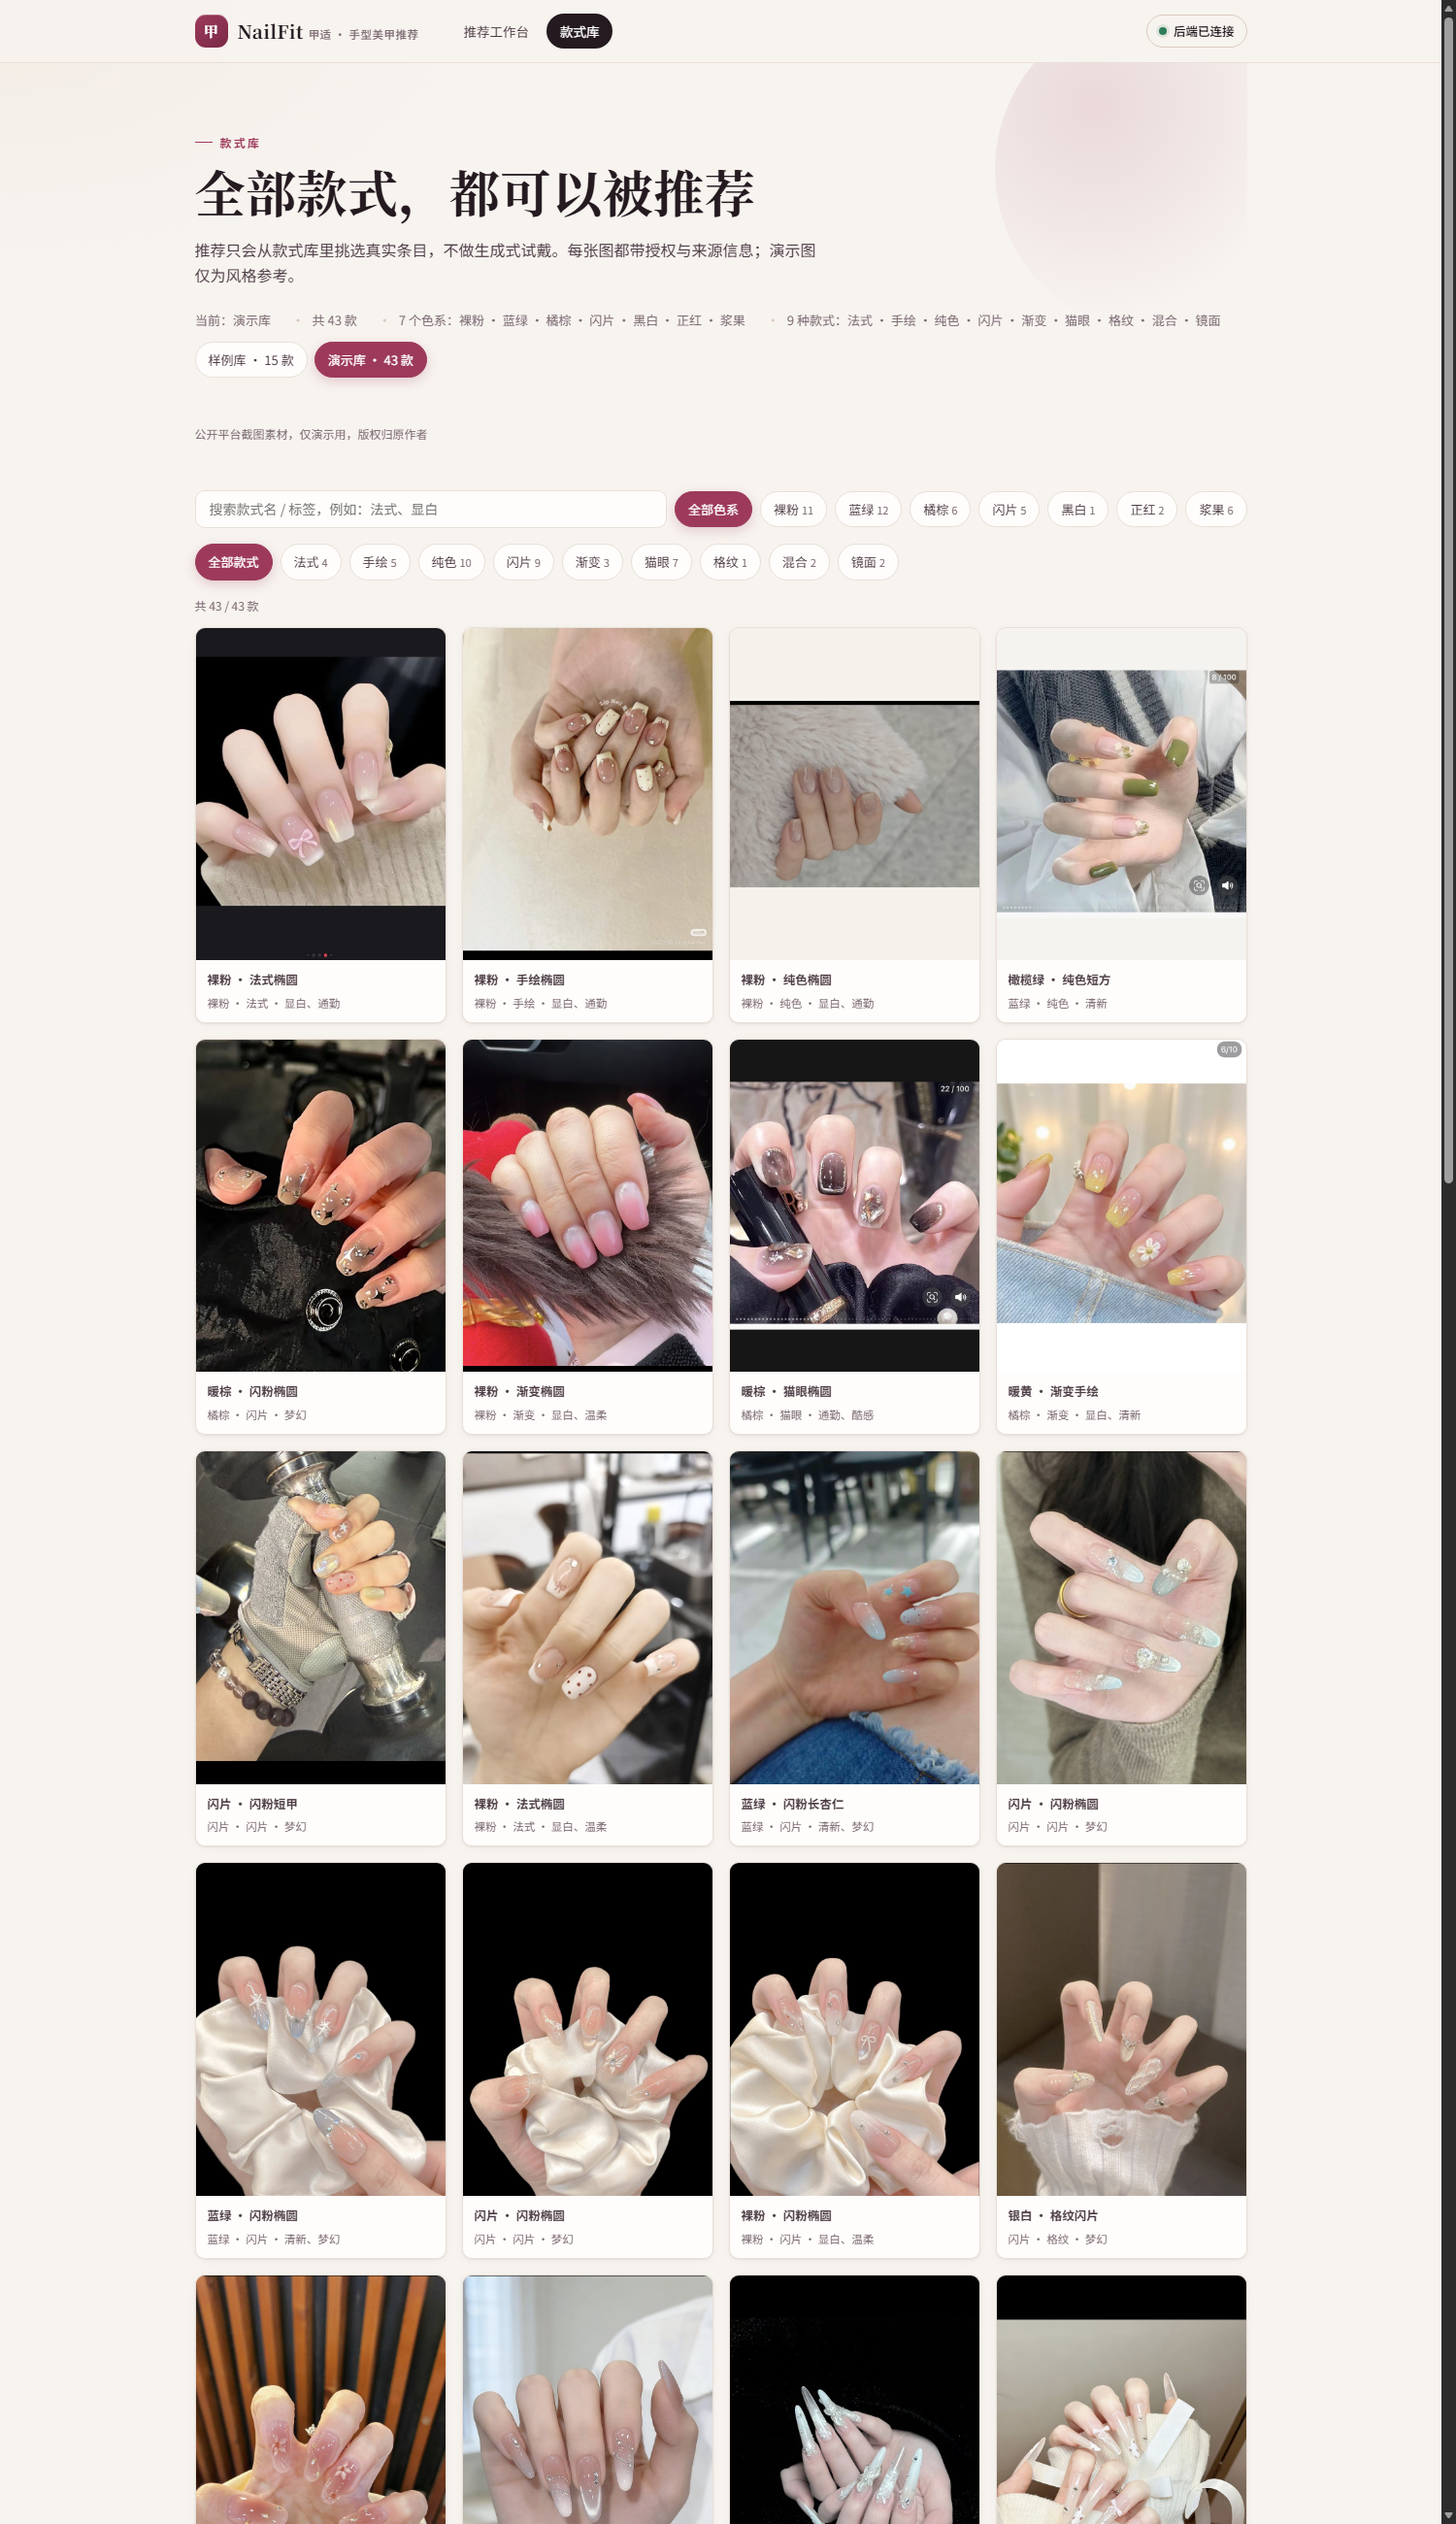
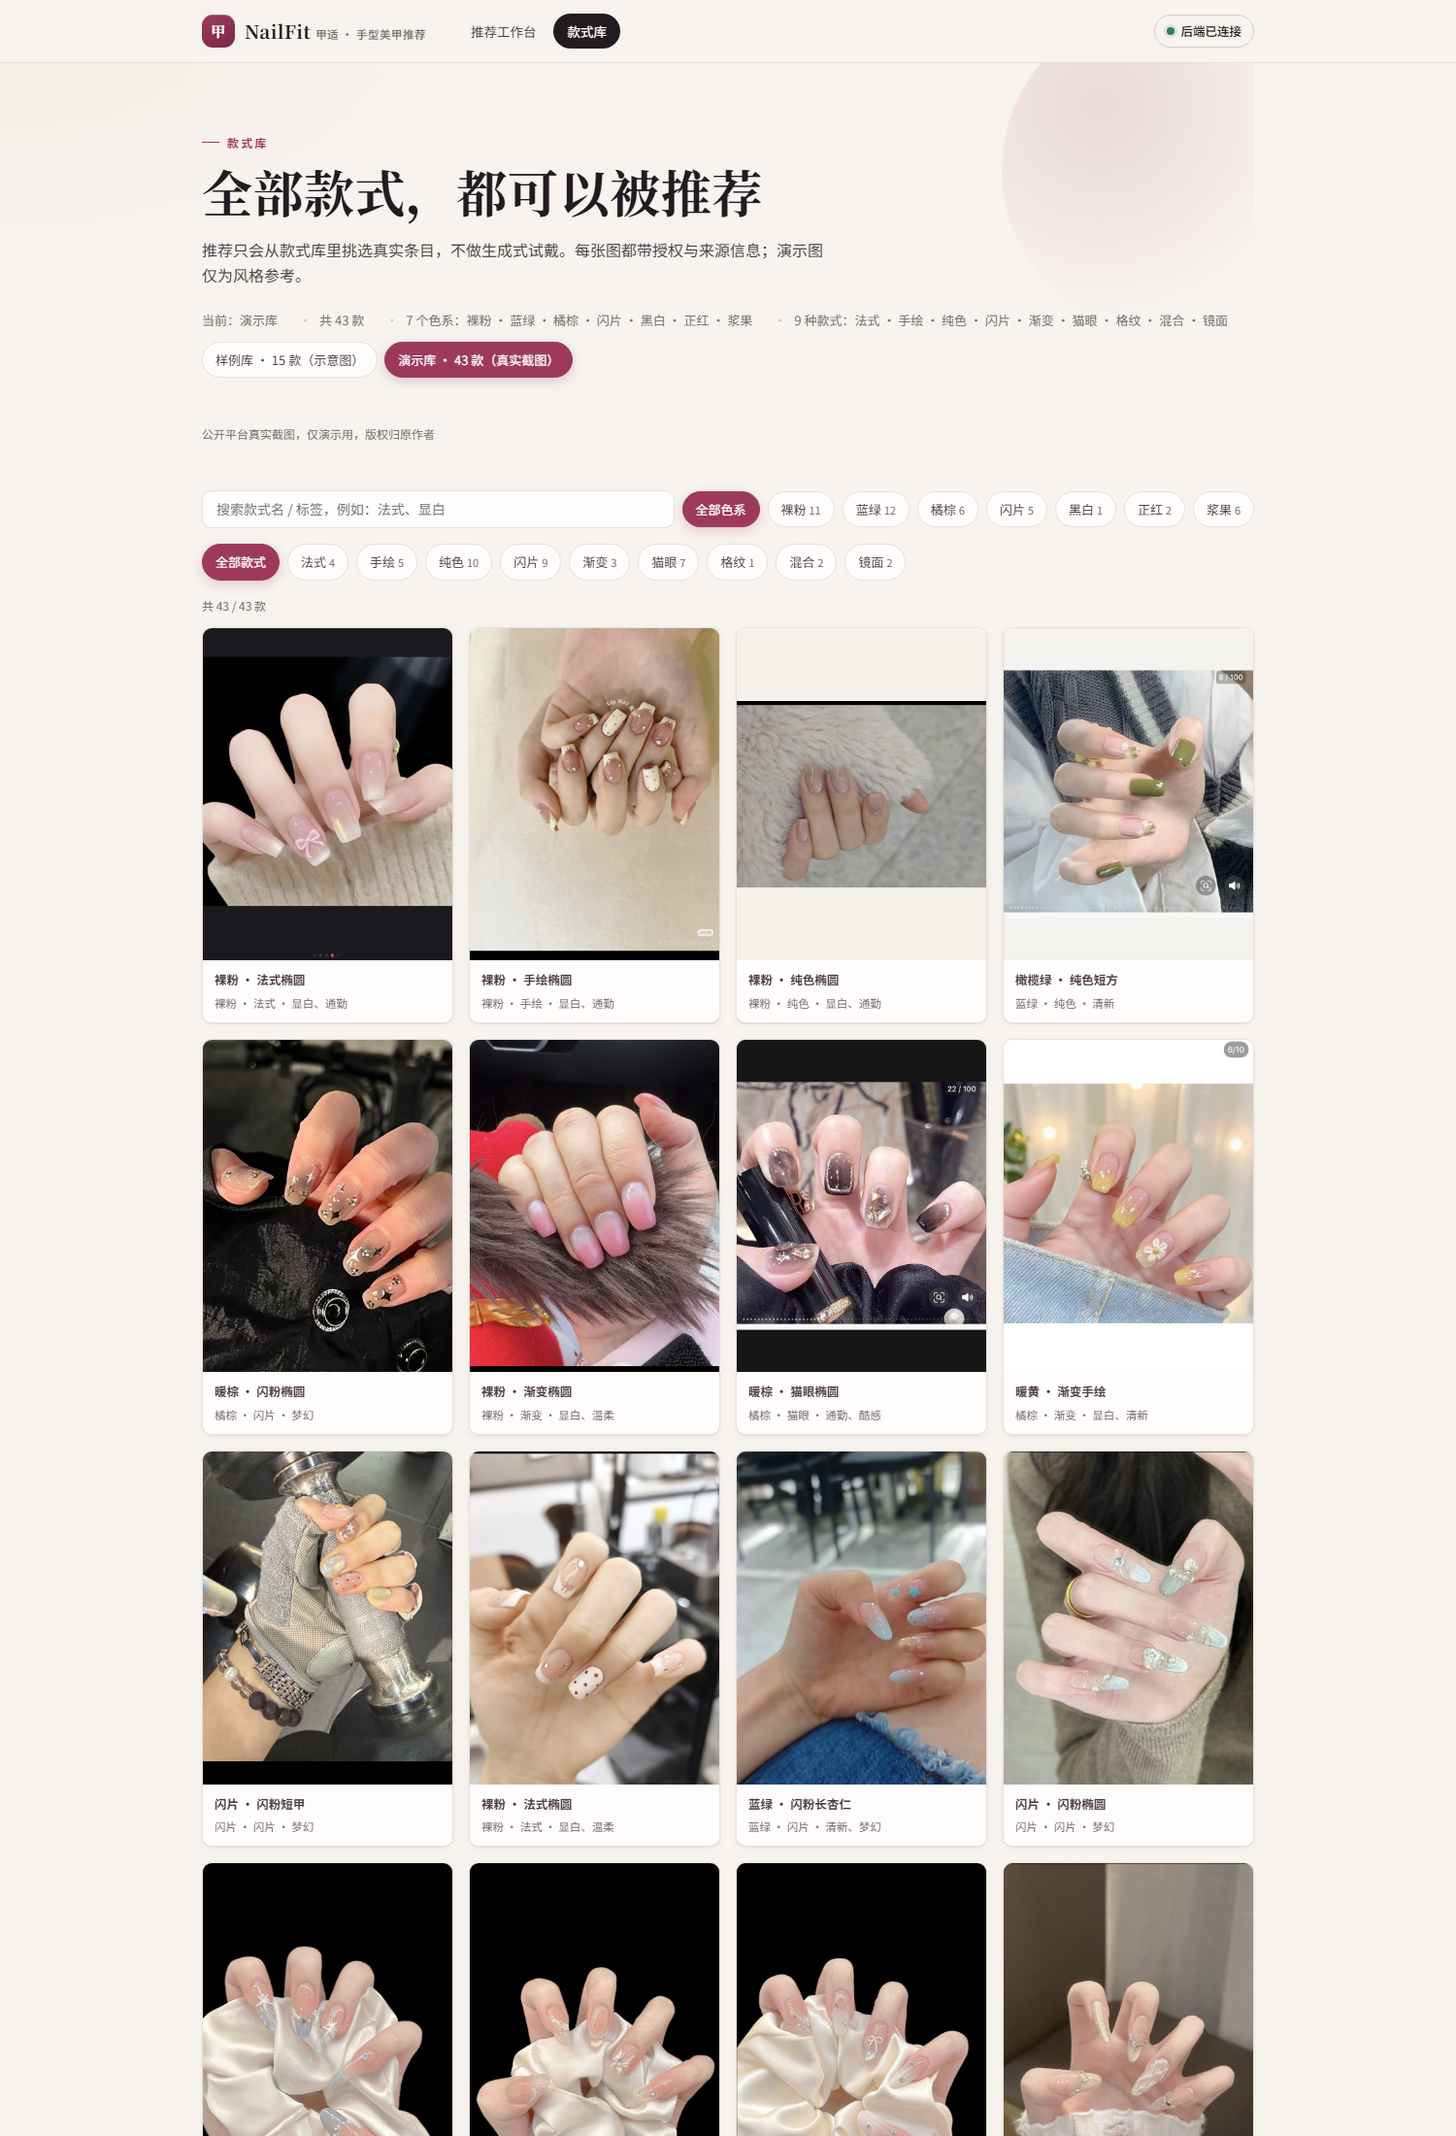
fix: 默认自动选演示库、区分占位图与演示素材、LLM 开关按后端状态（M29 配套）

diff --git a/src/views/WorkbenchView.vue b/src/views/WorkbenchView.vue
@@ -1,8 +1,15 @@
 <script setup lang="ts">
 import { computed, onMounted, ref, watch } from 'vue'
-import type { Features, LibraryName, RecommendResponse, Style, VisionResponse } from '../types'
+import type {
+  Features,
+  LibraryInfo,
+  LibraryName,
+  RecommendResponse,
+  Style,
+  VisionResponse,
+} from '../types'
 import { api, ApiError } from '../api'
-import { DEFAULT_FEATURES, LIBRARY_SHORT, SCENE_LABELS, type Preset } from '../options'
+import { DEFAULT_FEATURES, LIBRARY_SHORT, SCENE_LABELS, pickDefaultLibrary, type Preset } from '../options'
 import FeatureForm from '../components/FeatureForm.vue'
 import PhotoUpload from '../components/PhotoUpload.vue'
 import ResultBoard from '../components/ResultBoard.vue'
@@ -20,6 +27,11 @@ const styles = ref<Style[]>([])
 const stylesError = ref('')
 const llmReady = ref(false)
 const showUpload = ref(false)
+const libraryMeta = ref<Record<string, LibraryInfo>>({})
+const demoMissing = computed(() => {
+  const demo = libraryMeta.value.demo
+  return Boolean(demo && demo.available && !demo.images_ready)
+})
 
 const libraryCount = computed(() => styles.value.length)
 const libraryLabel = computed(() => LIBRARY_SHORT[library.value] ?? '款式库')
@@ -35,16 +47,28 @@ async function loadStyles(): Promise<void> {
   }
 }
 
+let initialized = false
+
 onMounted(async () => {
+  const [health, libs] = await Promise.all([
+    api.health().catch(() => null),
+    api.libraries().catch(() => null),
+  ])
+  // 后端有没有配 DEEPSEEK_API_KEY 决定大模型开关是否可用（没配会自动降级模板）
+  llmReady.value = health?.llm_configured ?? true
+  useLlm.value = llmReady.value
+  if (libs) {
+    libraryMeta.value = Object.fromEntries(libs.libraries.map((item) => [item.name, item]))
+    const preferred = pickDefaultLibrary(libs)
+    if (preferred) library.value = preferred
+  }
+  initialized = true
   await loadStyles()
-  // 后端未配置 Key 时会自动退回模板理由，因此默认允许勾选；
-  // 首次推荐成功后，可用 meta.explainer 进一步展示实际生成方式。
-  llmReady.value = true
 })
 
 watch(library, () => {
   result.value = null
-  void loadStyles()
+  if (initialized) void loadStyles()
 })
 
 function currentScene(): string {
@@ -133,6 +157,7 @@ const sceneLabel = computed(() => SCENE_LABELS[features.value.scene] ?? features
           v-model:library="library"
           :busy="loading"
           :llm-ready="llmReady"
+          :library-meta="libraryMeta"
           @submit="submit"
           @reset="resetForm"
           @preset="applyPreset"
@@ -157,6 +182,11 @@ const sceneLabel = computed(() => SCENE_LABELS[features.value.scene] ?? features
 
         <div v-if="stylesError" class="alert alert-error" style="margin-bottom: 14px">
           款式库加载失败：{{ stylesError }}。请确认后端已启动（默认 http://127.0.0.1:8000）。
+        </div>
+
+        <div v-else-if="demoMissing" class="alert alert-error" style="margin-bottom: 14px">
+          演示库图片缺失（<code>static/demo/</code> 未随仓库提交），已可回退样例库占位图。
+          需要真实截图时在项目根目录重跑 <code>python scripts/prepare_images.py</code>。
         </div>
 
         <ResultBoard :result="result" :busy="loading" :error="error" />

diff --git a/src/views/LibraryView.vue b/src/views/LibraryView.vue
@@ -1,17 +1,34 @@
 <script setup lang="ts">
 import { computed, onMounted, ref, watch } from 'vue'
-import type { LibraryName, Style } from '../types'
+import type { LibraryInfo, LibraryName, Style } from '../types'
 import { api, ApiError } from '../api'
-import { COLOR_FAMILY_LABELS, LIBRARIES, LIBRARY_HINTS, LIBRARY_SHORT, STYLE_LABELS } from '../options'
+import {
+  COLOR_FAMILY_LABELS,
+  LIBRARIES,
+  LIBRARY_HINTS,
+  LIBRARY_SHORT,
+  STYLE_LABELS,
+  pickDefaultLibrary,
+} from '../options'
 import StyleGallery from '../components/StyleGallery.vue'
 
 const library = ref<LibraryName>('sample')
+const libraryMeta = ref<Record<string, LibraryInfo>>({})
 const styles = ref<Style[]>([])
 const loading = ref(true)
 const error = ref('')
 
 const libraryLabel = computed(() => LIBRARY_SHORT[library.value] ?? '款式库')
-const libraryHint = computed(() => LIBRARY_HINTS[library.value] ?? '')
+const libraryHint = computed(() => {
+  const base = LIBRARY_HINTS[library.value] ?? ''
+  return libraryReady(library.value) ? base : `${base} · 图片缺失，请重跑 prepare_images.py`
+})
+
+function libraryReady(name: string): boolean {
+  const meta = libraryMeta.value[name]
+  if (!meta) return true
+  return meta.available && meta.images_ready
+}
 
 const colorCount = computed(() => new Set(styles.value.map((s) => s.color_family)).size)
 const styleCount = computed(() => new Set(styles.value.map((s) => s.style)).size)
@@ -30,7 +47,17 @@ async function load(): Promise<void> {
   }
 }
 
-onMounted(load)
+onMounted(async () => {
+  try {
+    const libs = await api.libraries()
+    libraryMeta.value = Object.fromEntries(libs.libraries.map((item) => [item.name, item]))
+    const preferred = pickDefaultLibrary(libs)
+    if (preferred) library.value = preferred
+  } catch {
+    /* 拿不到库清单就按默认样例库加载 */
+  }
+  await load()
+})
 
 watch(library, () => void load())
 
@@ -69,7 +96,8 @@ const styleList = computed(() =>
         class="chip"
         :class="{ active: library === item.value }"
         :aria-pressed="library === item.value"
-        :disabled="loading"
+        :disabled="loading || !libraryReady(item.value)"
+        :title="libraryReady(item.value) ? LIBRARY_HINTS[item.value] : '图片缺失，请在项目根目录重跑 prepare_images.py'"
         @click="library = item.value as LibraryName"
       >
         {{ item.label }}

diff --git a/src/options.ts b/src/options.ts
@@ -1,4 +1,4 @@
-import type { Features } from './types'
+import type { Features, LibrariesResponse, LibraryName } from './types'
 
 export interface Option {
   value: string
@@ -99,18 +99,28 @@ export const SCENE_LABELS: Record<string, string> = {
 }
 
 export const LIBRARIES: Option[] = [
-  { value: 'sample', label: '样例库 · 15 款' },
-  { value: 'demo', label: '演示库 · 43 款' },
+  { value: 'sample', label: '样例库 · 15 款（示意图）' },
+  { value: 'demo', label: '演示库 · 43 款（真实截图）' },
 ]
 
 export const LIBRARY_HINTS: Record<string, string> = {
-  sample: '占位图样式示例，随仓库提交，离线也能看',
-  demo: '公开平台截图素材，仅演示用，版权归原作者',
+  sample: '精绘占位示意图，非真实款式；随仓库提交，离线也能看',
+  demo: '公开平台真实截图，仅演示用，版权归原作者',
 }
 
 export const LIBRARY_SHORT: Record<string, string> = {
   sample: '样例库',
   demo: '演示库',
+}
+
+/** 有图齐全的演示库优先（真实截图更好看）；否则退回样例库。 */
+export function pickDefaultLibrary(res: LibrariesResponse | null): LibraryName | null {
+  if (!res) return null
+  const ready = res.libraries.filter((item) => item.available && item.images_ready)
+  const demo = ready.find((item) => item.name === 'demo')
+  if (demo) return 'demo'
+  const sample = ready.find((item) => item.name === 'sample')
+  return sample ? 'sample' : null
 }
 
 export const TIER_LABELS: Record<string, string> = {
@@ -172,7 +182,7 @@ export const LICENSE_LABELS: Record<string, string> = {
   unsplash: 'Unsplash 可商用',
   openverse: 'CC 开放许可',
   unknown: '授权待确认',
-  placeholder: '占位图',
+  placeholder: '示意占位图',
 }
 
 // 常用规则 id → 中文（没命中的走 humanize 兜底）

diff --git a/src/components/FeatureForm.vue b/src/components/FeatureForm.vue
@@ -1,11 +1,12 @@
 <script setup lang="ts">
 import { computed } from 'vue'
-import type { Features, LibraryName } from '../types'
+import type { Features, LibraryInfo, LibraryName } from '../types'
 import { DEFAULT_FEATURES, FIELDS, LIBRARIES, LIBRARY_HINTS, PRESETS, type Preset } from '../options'
 
 const props = defineProps<{
   busy: boolean
   llmReady: boolean
+  libraryMeta?: Record<string, LibraryInfo>
 }>()
 
 const emit = defineEmits<{
@@ -40,6 +41,17 @@ function pickLibrary(value: string): void {
     library.value = value
   }
 }
+
+function libraryReady(name: string): boolean {
+  const meta = props.libraryMeta?.[name]
+  if (!meta) return true
+  return meta.available && meta.images_ready
+}
+
+const libraryHint = computed(() => {
+  const base = LIBRARY_HINTS[library.value] ?? ''
+  return libraryReady(library.value) ? base : `${base} · 图片缺失，请重跑 prepare_images.py`
+})
 </script>
 
 <template>
@@ -76,14 +88,15 @@ function pickLibrary(value: string): void {
           type="button"
           class="chip"
           :class="{ active: library === opt.value }"
-          :disabled="busy"
+          :disabled="busy || !libraryReady(opt.value)"
           :aria-pressed="library === opt.value"
+          :title="libraryReady(opt.value) ? LIBRARY_HINTS[opt.value] : '图片缺失，请在项目根目录重跑 prepare_images.py'"
           @click="pickLibrary(opt.value)"
         >
           {{ opt.label }}
         </button>
       </div>
-      <p class="field-note">{{ LIBRARY_HINTS[library] }}</p>
+      <p class="field-note">{{ libraryHint }}</p>
     </div>
 
     <div v-for="field in FIELDS" :key="String(field.key)" class="field">

diff --git a/src/api.ts b/src/api.ts
@@ -1,5 +1,6 @@
 import type {
   HealthResponse,
+  LibrariesResponse,
   LibraryName,
   RecommendPayload,
   RecommendResponse,
@@ -58,6 +59,7 @@ async function request<T>(path: string, init?: RequestInit, timeoutMs = 30000): 
 
 export const api = {
   health: () => request<HealthResponse>('/api/health', {}, 6000),
+  libraries: () => request<LibrariesResponse>('/api/libraries', {}, 8000),
   styles: (library: LibraryName = 'sample') =>
     request<StylesResponse>(`/api/styles?library=${encodeURIComponent(library)}`, {}, 15000),
   recommend: (payload: RecommendPayload) =>

diff --git a/src/types.ts b/src/types.ts
@@ -130,4 +130,18 @@ export interface StylesResponse {
 export interface HealthResponse {
   status: string
   service?: string
+  llm_configured?: boolean
+}
+
+export interface LibraryInfo {
+  name: LibraryName
+  count: number
+  available: boolean
+  images_ready: boolean
+  missing_images?: number
+}
+
+export interface LibrariesResponse {
+  default: LibraryName
+  libraries: LibraryInfo[]
 }

diff --git a/README.md b/README.md
@@ -54,7 +54,8 @@ VITE_API_BASE=https://api.example.com
   - 完整 JSON 展开 / 复制 / 下载，方便复现与调试
 - **手照识别**：拖拽或点击上传手照（≤12 MB），调用 `POST /api/vision/upload`，展示识别质量、手别、手势与各字段置信度；可一键回填表单（低置信字段会标注）
 - **款式库**：全部款式网格，按色系 / 款式筛选 + 关键词搜索，显示授权与来源说明
-- **款式库切换**：可选样例库（15 款占位图）或演示库（43 款真实截图），切换后图廊与推荐结果同步更新
+- **款式库切换**：可选样例库（15 款精绘占位示意图）或演示库（43 款真实截图），切换后图廊与推荐结果同步更新；启动时调 `GET /api/libraries`，优先自动选图齐全的演示库，缺图时禁用该库并提示重跑 `prepare_images.py`
+- **图片授权标注**：演示库卡片标「演示素材」，样例库标「示意占位图 · 非真实款式」，来源页可点击；无 `DEEPSEEK_API_KEY` 时大模型开关自动置灰
 - 后端健康状态实时指示（顶部右上角），断连时给出明确提示
 
 ## 截图
@@ -97,7 +98,8 @@ naifit-fonted/
 
 | 方法 | 路径 | 用途 |
 | --- | --- | --- |
-| GET | `/api/health` | 健康检查 |
+| GET | `/api/health` | 健康检查（含 `llm_configured`，决定大模型开关是否可用） |
+| GET | `/api/libraries` | 可选款式库 + 图片齐全度（默认库自动选择依据） |
 | GET | `/api/styles?library=sample\|demo` | 款式库（`{ count, styles }`，默认 sample） |
 | POST | `/api/recommend` | 推荐（`features` + `free_text` + `use_llm` + `library`） |
 | POST | `/api/vision/upload` | 手照识别（原始图片字节，`?scene=commute`） |
